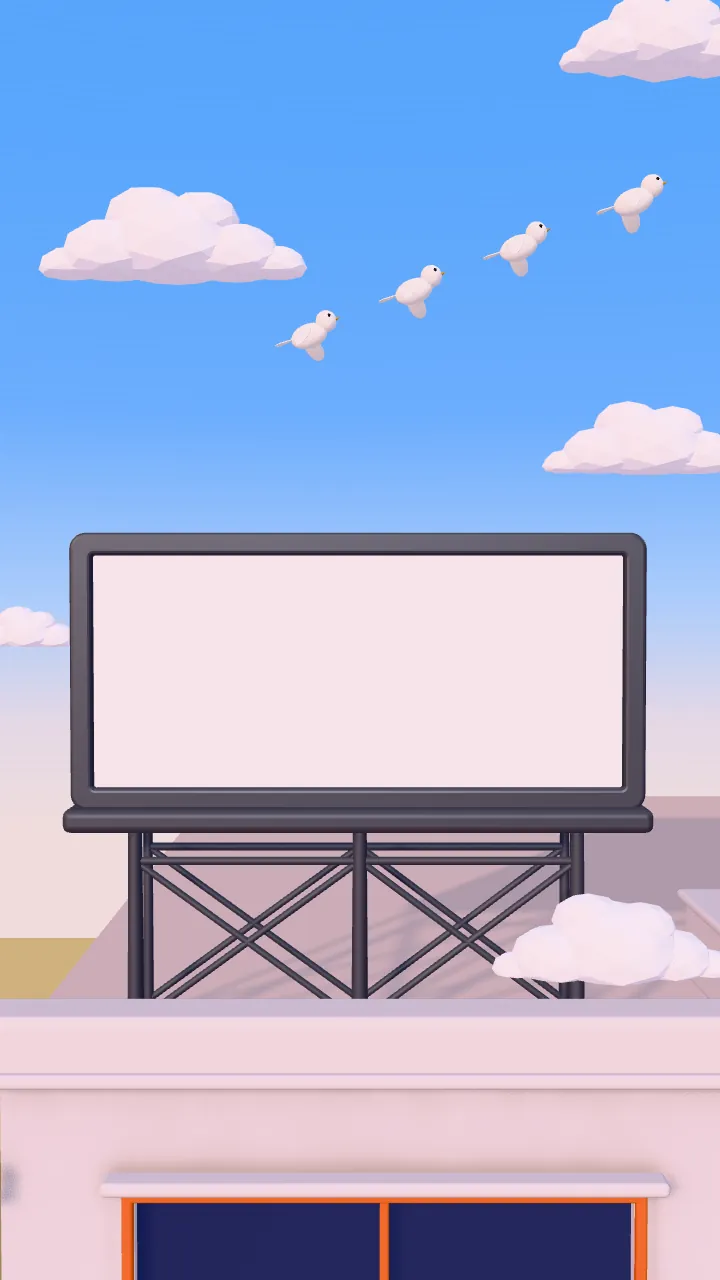
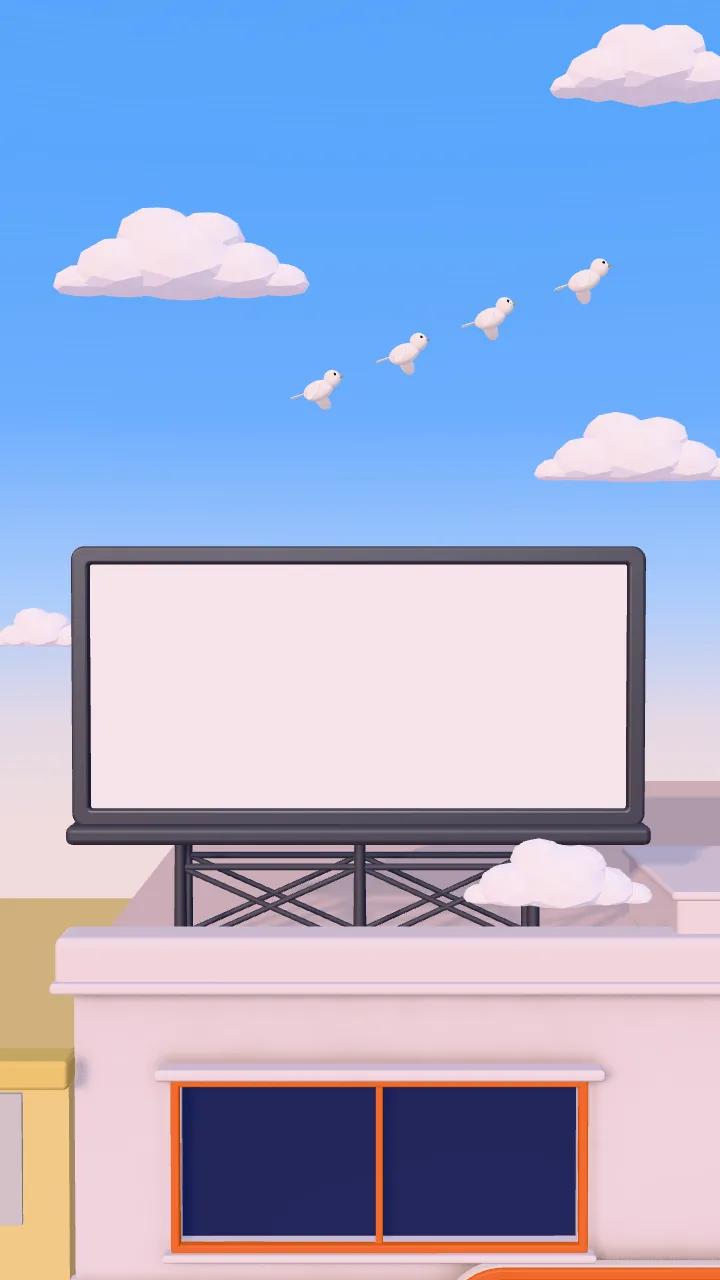
Make the billboard over COMPANY 25% larger, on shorter legs (#32)
The board grows 25% wider and taller from its middle and sits 0.45 m
lower on shorter legs that stand where the K0 solve has them, so on
16:9 it fills more of K0 with sky above it for the pigeons. On 9:16,
where it already spanned the screen, the K0 camera steps back as much
as it grew. K16 looks a little less down on 16:9 and stands a little
further left on 9:16 so the board stays whole. The K0 and K16 stills
and the hero anchors are rendered again.

Refs #32

diff --git a/site/world/sets/street.ts b/site/world/sets/street.ts
@@ -10,14 +10,29 @@ const E = DATA.ext;
 export const DOOR_H = 2.2;
 export const WALL_T = 0.3;
 
+/**
+ * Issue #32: the billboard is 25% wider and taller than the K0 solve (E.xbL … E.ybT), grown up and out to both sides
+ * from its middle, on legs BILLBOARD_DROP shorter (its bottom edge that much below the solve's): on 16:9 it sits lower
+ * in K0, with sky above it for the pigeons. The legs stand where the solve has them on the roof.
+ */
+export const BILLBOARD_SCALE = 1.25,
+  BILLBOARD_DROP = 0.45;
+const BB = (() => {
+  const w0 = E.xbR - E.xbL,
+    cx = (E.xbL + E.xbR) / 2,
+    w = w0 * BILLBOARD_SCALE;
+  const yB = E.ybB - BILLBOARD_DROP;
+  return { xL: cx - w / 2, xR: cx + w / 2, yB, yT: yB + (E.ybT - E.ybB) * BILLBOARD_SCALE, w0 };
+})();
+
 /** The billboard face (inside the frame), in world units: where the hero copy sits. */
 export function billboardFace() {
-  const w = E.xbR - E.xbL,
-    h = E.ybT - E.ybB,
-    cx = (E.xbL + E.xbR) / 2,
+  const w = BB.xR - BB.xL,
+    h = BB.yT - BB.yB,
+    cx = (BB.xL + BB.xR) / 2,
     ledge = 0.17,
     panelH = h - ledge,
-    cy = E.ybB + ledge + panelH / 2,
+    cy = BB.yB + ledge + panelH / 2,
     z = E.zb - 0.05 + 0.016;
   const hw = (w - 0.2) / 2,
     hh = (panelH - 0.2) / 2;
@@ -388,9 +403,9 @@ export function buildStreet(kit: Kit, ao: AoTarget[]) {
       mat(C.trim),
       mtx([(E.xrL + E.xrR) / 2, E.yrT - 0.02, E.zr - E.drb / 2]),
     );
-    const w = E.xbR - E.xbL,
-      h = E.ybT - E.ybB,
-      cx = (E.xbL + E.xbR) / 2,
+    const w = BB.xR - BB.xL,
+      h = BB.yT - BB.yB,
+      cx = (BB.xL + BB.xR) / 2,
       zb = E.zb,
       fr = mat(C.frame, { roughness: 0.48, metalness: 0.35 });
     const ledge = 0.17,
@@ -407,17 +422,17 @@ export function buildStreet(kit: Kit, ao: AoTarget[]) {
         curveSegments: 10,
       }),
       fr,
-      mtx([cx, E.ybB + ledge + panelH / 2, zb - 0.06]),
+      mtx([cx, BB.yB + ledge + panelH / 2, zb - 0.06]),
     );
-    X.add(G.box(w - 0.18, panelH - 0.18, 0.03), faceMat, mtx([cx, E.ybB + ledge + panelH / 2, zb - 0.05]));
+    X.add(G.box(w - 0.18, panelH - 0.18, 0.03), faceMat, mtx([cx, BB.yB + ledge + panelH / 2, zb - 0.05]));
     nightBillboard = new THREE.Mesh(new THREE.PlaneGeometry(w - 0.2, panelH - 0.2), nightFaceMat);
     nightBillboard.name = "night-billboard-copy";
-    nightBillboard.position.set(cx, E.ybB + ledge + panelH / 2, zb - 0.05 + 0.016);
+    nightBillboard.position.set(cx, BB.yB + ledge + panelH / 2, zb - 0.05 + 0.016);
     nightBillboard.visible = false;
     ext.add(nightBillboard);
-    X.add(G.rbox(w + 0.12, ledge, 0.36, 0.06), fr, mtx([cx, E.ybB + ledge / 2, zb]));
-    const legs = [0.106, 0.503, 0.887].map((f) => E.xbL + f * w),
-      legTop = E.ybB,
+    X.add(G.rbox(w + 0.12, ledge, 0.36, 0.06), fr, mtx([cx, BB.yB + ledge / 2, zb]));
+    const legs = [0.106, 0.503, 0.887].map((f) => E.xbL + f * BB.w0),
+      legTop = BB.yB,
       legBot = roofY;
     for (const x of legs) {
       X.add(G.cyl(0.05, 0.06, legTop - legBot, 12), fr, mtx([x, (legTop + legBot) / 2, zb]));

diff --git a/site/world/takes/home/index.ts b/site/world/takes/home/index.ts
@@ -17,6 +17,7 @@ import { B12_START, beat12Camera } from "./beat12";
 import { B15_START, beat15Camera } from "./beat15";
 import { pairX, scrollClock } from "./outsideCast";
 import { LAYOUT_STEPS } from "../../sets/companyFront";
+import { BILLBOARD_SCALE, billboardFace } from "../../sets/street";
 import { SEG, TAKE_SCREENS, WHIP_AT, type KeyName } from "./timing";
 
 export { SEG, TAKE_SCREENS, KEYS, keyP, WHIP_AT } from "./timing";
@@ -53,6 +54,20 @@ const kf = (k: SolvedKey, t: number, narrow = 0) => {
   if (TILT[k]) c.quat.multiply(pitchQ(-TILT[k] * (1 - t)));
   return c;
 };
+
+/**
+ * Issue #32: K0 with the billboard 25% larger. 16:9 keeps the solved camera (the billboard fills more of the frame);
+ * 9:16, where it already spanned the screen's width, steps back as much as the billboard grew, so it is framed as
+ * in the keyframe.
+ */
+const BOARD = billboardFace();
+function k0(t: number): CamPose {
+  const c = kf("K0", t),
+    d = c.pos.distanceTo(new THREE.Vector3(BOARD.cx, BOARD.cy, BOARD.z)),
+    fwd = new THREE.Vector3(0, 0, -1).applyQuaternion(c.quat);
+  c.pos.addScaledVector(fwd, -d * (BILLBOARD_SCALE - 1) * t);
+  return c;
+}
 
 /** Ease with zero speed at the start and speed `m` (in units of the whole move) at the end. */
 const easeTo = (u: number, m: number) => (m - 2) * u ** 3 + (3 - m) * u ** 2;
@@ -151,6 +166,7 @@ export function cameraAt(
     const key = s < SEG_K22 * 0.6 ? "K2.2" : s < SEG_K22 + seg.screens * 0.5 ? "K2.4" : "K3";
     return { ...beat34Camera(t, aspect, kf("K2.2", t, narrow), s), key };
   }
+  if (seg.type === "hold" && seg.from === "K0") return { ...k0(t), key: seg.from };
   if (seg.type === "hold") return { ...kf(seg.from as SolvedKey, t, narrow), key: seg.from };
   if (seg.from === "K2") {
     const { A, B, curve, atB } = panPath(t, heru, narrow),
@@ -175,7 +191,7 @@ export function cameraAt(
       key: whip < 0.5 ? "K2.1" : "K2.2",
     };
   }
-  const A = kf(seg.from as SolvedKey, t),
+  const A = seg.from === "K0" ? k0(t) : kf(seg.from as SolvedKey, t),
     B = kf(seg.to as SolvedKey, t),
     e = ease(u);
   let pos: THREE.Vector3;

diff --git a/site/world/takes/home/beat15.ts b/site/world/takes/home/beat15.ts
@@ -36,8 +36,10 @@ export const k15View = (t: number) => mix(K15_PC, K15_HP, t);
 // K16 (video 38.7 s): from high across the road looking a little down, COMPANY ±35% of the width at the left (its
 // base at ±64% of the height), three shops on its right, the road across the lower third (the far pavement, z 12.1,
 // just below the frame), the stars above the roofs (their tops at ±21%). 9:16: COMPANY and its billboard, the road under them
-const K16_PC = v(7.0, 8.4, 25.5, 0, D2R(-12.5), 38.6),
-  K16_HP = v(-1.0, 6.8, 17.5, 0, D2R(-14), 60);
+// (issue #32: the billboard 25% larger: 16:9 looks 3.7° less down and 9:16 stands 0.7 m further left, so it stays whole
+// below the page's header and inside the left edge)
+const K16_PC = v(7.0, 8.4, 25.5, 0, D2R(-8.8), 38.6),
+  K16_HP = v(-1.7, 6.8, 17.5, 0, D2R(-13), 60);
 export const k16View = (t: number) => mix(K16_PC, K16_HP, t);
 
 const tracks = new Map<string, ReturnType<typeof track>>();

diff --git a/PLAN.md b/PLAN.md
@@ -2521,3 +2521,12 @@ Detail di **[PLAN-SOLUSI.md](PLAN-SOLUSI.md)**: sumber v1, arsitektur etalase, d
 - Dicek (dev server, Playwright): K2.2 berantakan, K11.1 dan K13 rapi di 1280×720 dan 375×812; lompat dari K13 ke K2.2 berantakan lagi; draw call K11.1 96 → 98. Typecheck, ESLint, Prettier lulus.
 - Belum: review tim untuk desain meja rapi (tanpa keyframe, aturan kerja 6); tes HP fisik.
 - `next build` lulus. Atas perintah user ("Oke, commit"): di-commit ke `main` (hanya file #31 dan entri log ini) lalu di-push ke `origin main`; komentar #30 dan #31 dikirim lewat Chrome setelah user login GitHub.
+
+### 2026-11-16 (issue GitHub #32: billboard 3D lebih besar)
+
+- Atas permintaan user ("tutup keduanya dan lanjutkan issue berikutnya"). Jawaban user: lebar dan tinggi +25% (kamera K0 tetap, papan tampak lebih besar).
+- Perubahan: `sets/street.ts` `BILLBOARD_SCALE = 1.25`. Papan membesar ke atas dan ke kedua sisi dari tengahnya, tepi bawah di posisi solver. Bingkai, wajah, ledge, wajah malam dan `billboardFace()` ikut membesar; kaki dan rangka tetap di posisi solver (`E.xbL + f · w0`), jadi AO atap tidak berubah. `takes/home/index.ts` `k0()`: di 9:16 (sudah selebar layar di keyframe) kamera K0 mundur sebanding pembesaran (jarak ke papan × 1,25 pada t = 1), 16:9 tetap. `takes/home/beat15.ts`: K16 PC pitch −12,5° → −8,8°, K16 HP x −1,0 → −1,7 m dan pitch −14° → −13°, supaya papan utuh di bawah header dan di dalam tepi kiri. Still K0 dan K16 (pc, hp) dan anchor K0 di `stills.json` dirender ulang.
+- Dicek (dev server, Playwright): K0 di 1280×720, 768×1024, 375×812, 360×740 copy hero utuh di wajah papan (PC atas bingkai ±24 px di bawah header; HP papan selebar layar seperti sebelumnya); K16 di 1280×720, 1440×900, 375×812 papan utuh; K1 dan K11 tanpa papan. Typecheck, ESLint, Prettier lulus.
+- Lalu atas permintaan user ("untuk desktop pendekkan sedikit tiangnya, agar billboard agak kebawah dan masih ada space langit untuk burung"): tiang 0,45 m lebih pendek (`BILLBOARD_DROP`, tepi bawah papan 0,45 m di bawah solver). Satu papan untuk semua format, jadi HP ikut turun; di K0 PC atas bingkai ±170 px dari atas (1280×720), burung terbang di langit di atasnya; HP dan K16 tetap utuh. Still K0 dan K16 dirender ulang lagi.
+- `next build` lulus. Komentar penyebab dan rencana dikirim di issue #32. Belum: tes HP fisik.
+- Atas perintah user ("Oke, commit"): di-commit ke `main` (hanya file #32 dan entri log ini) lalu di-push ke `origin main`; issue #32 ditutup.
